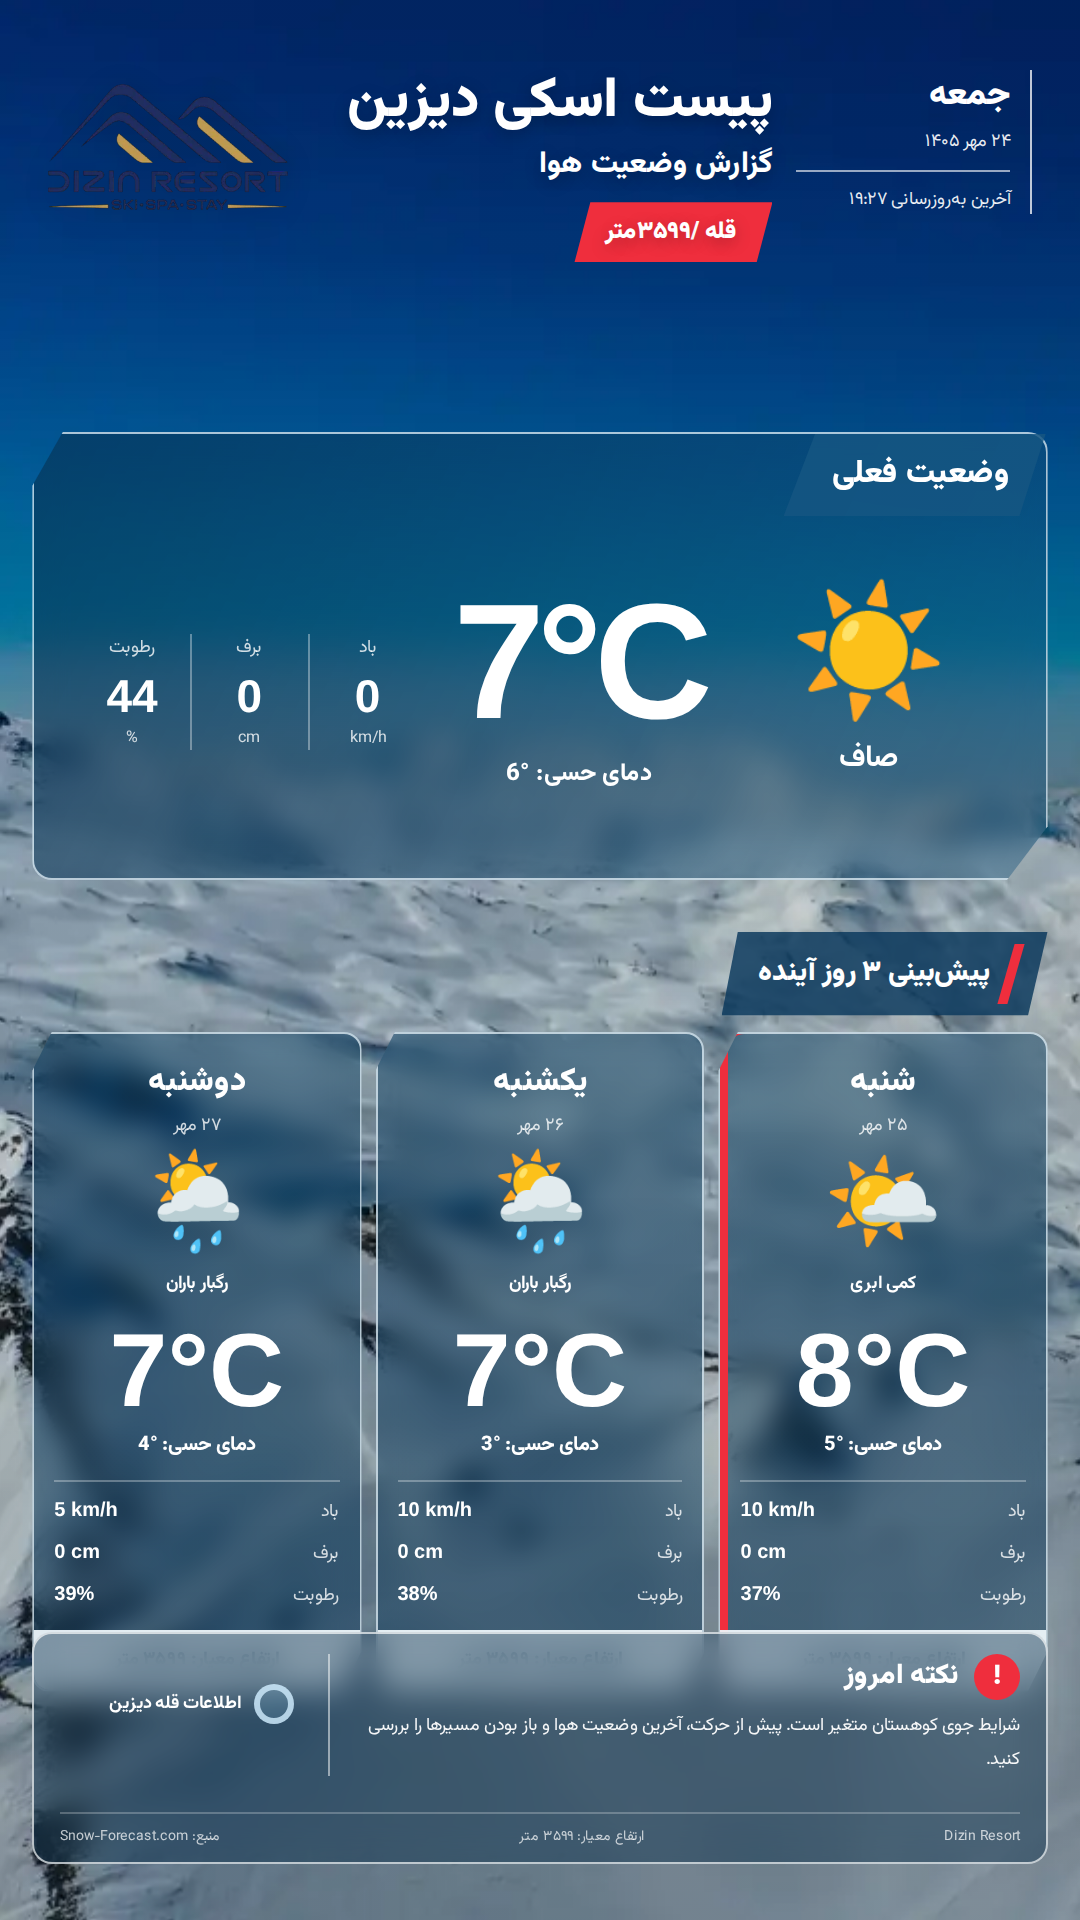
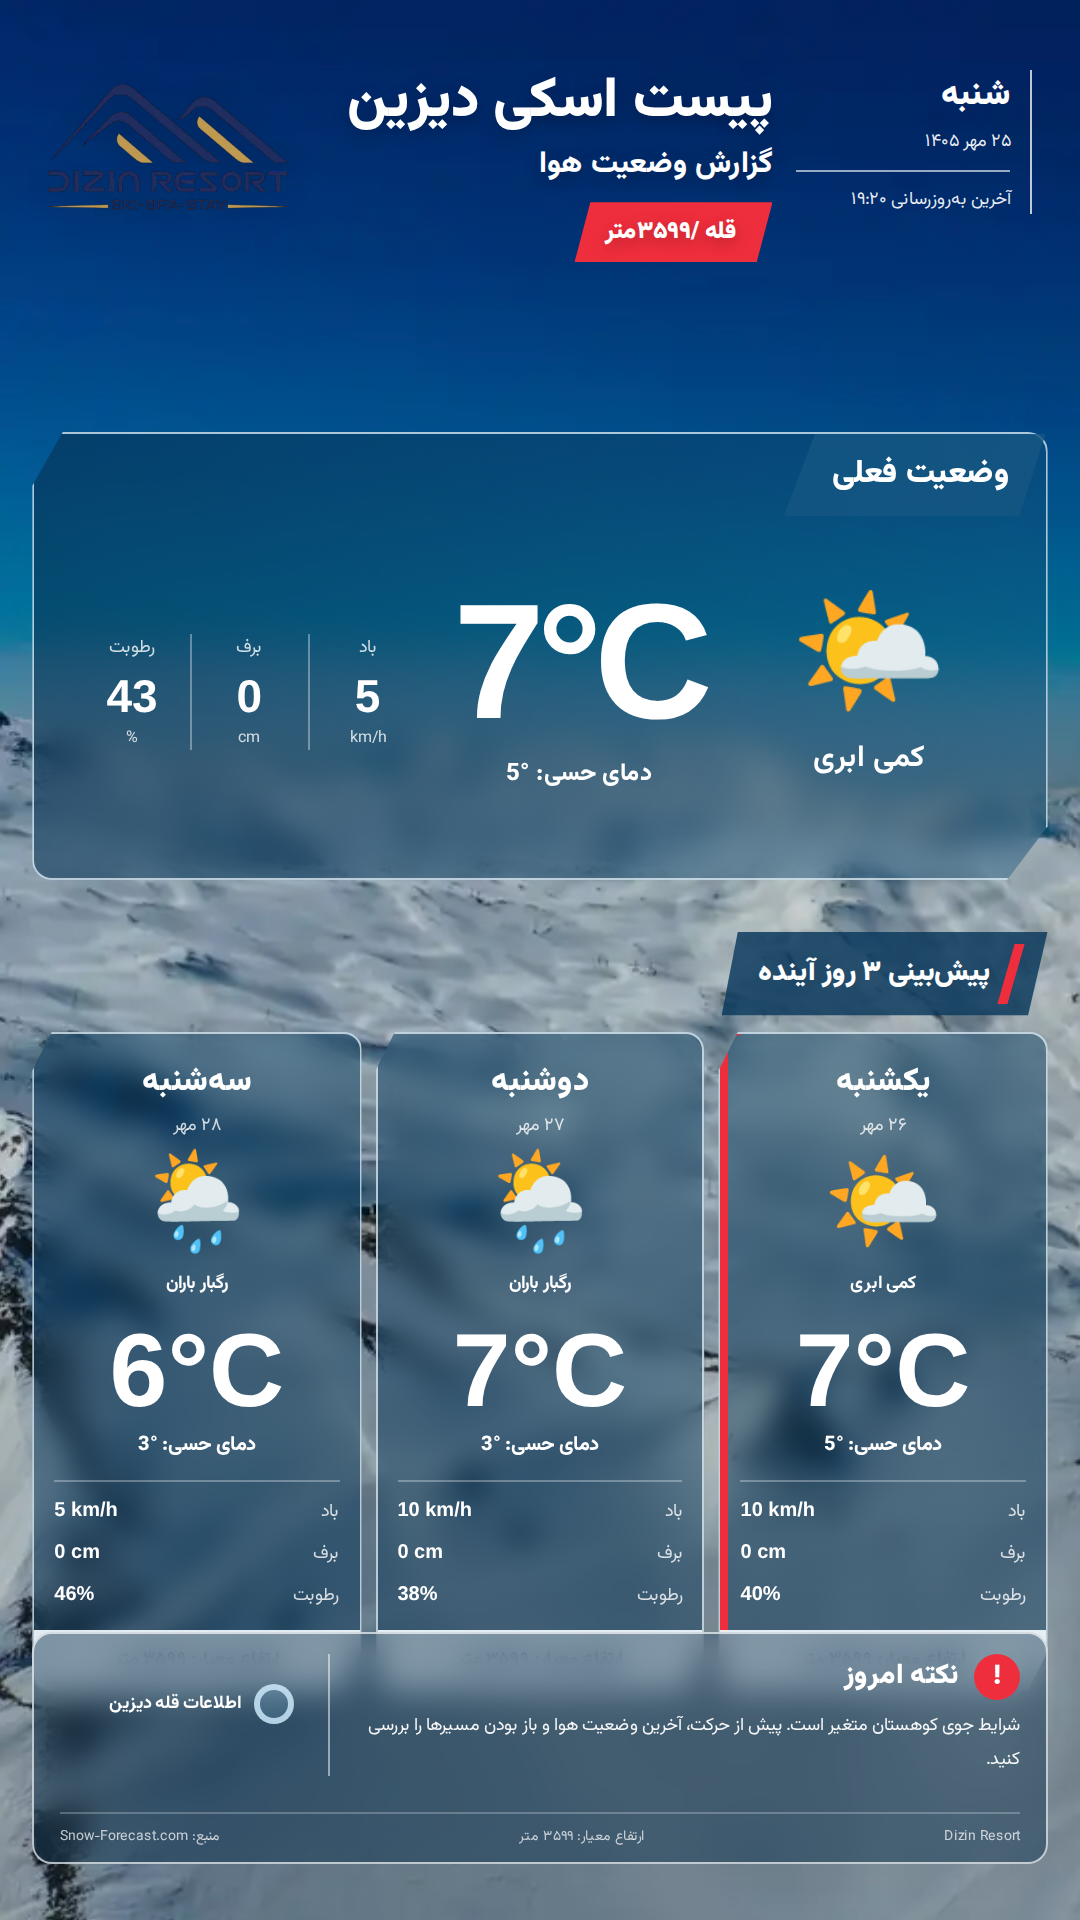
Update daily Dizin weather story

diff --git a/data.js b/data.js
@@ -4,38 +4,38 @@ window.DIZIN_WEATHER = {
   "note": "شرایط جوی کوهستان متغیر است. پیش از حرکت، آخرین وضعیت هوا و باز بودن مسیرها را بررسی کنید.",
   "source": "Snow-Forecast.com",
   "sourceUrl": "https://www.snow-forecast.com/resorts/Dizin/6day/top",
-  "updatedAt": "2026-10-16T15:57:46.994Z",
+  "updatedAt": "2026-10-17T15:50:23.016Z",
   "current": {
-    "isoDate": "2026-10-16",
-    "day": "جمعه",
-    "date": "۲۴ مهر",
-    "icon": "☀",
-    "condition": "صاف",
+    "isoDate": "2026-10-17",
+    "day": "شنبه",
+    "date": "۲۵ مهر",
+    "icon": "🌤",
+    "condition": "کمی ابری",
     "temp": 7,
-    "feels": 6,
-    "wind": 0,
+    "feels": 5,
+    "wind": 5,
     "snow": 0,
-    "humidity": 44,
+    "humidity": 43,
     "kind": "summit-period-forecast",
     "period": "night"
   },
   "days": [
     {
-      "isoDate": "2026-10-17",
-      "day": "شنبه",
-      "date": "۲۵ مهر",
-      "icon": "🌤",
-      "condition": "کمی ابری",
-      "temp": 8,
-      "feels": 5,
-      "wind": 10,
-      "snow": 0,
-      "humidity": 37
-    },
-    {
       "isoDate": "2026-10-18",
       "day": "یکشنبه",
       "date": "۲۶ مهر",
+      "icon": "🌤",
+      "condition": "کمی ابری",
+      "temp": 7,
+      "feels": 5,
+      "wind": 10,
+      "snow": 0,
+      "humidity": 40
+    },
+    {
+      "isoDate": "2026-10-19",
+      "day": "دوشنبه",
+      "date": "۲۷ مهر",
       "icon": "🌦",
       "condition": "رگبار باران",
       "temp": 7,
@@ -45,16 +45,16 @@ window.DIZIN_WEATHER = {
       "humidity": 38
     },
     {
-      "isoDate": "2026-10-19",
-      "day": "دوشنبه",
-      "date": "۲۷ مهر",
+      "isoDate": "2026-10-20",
+      "day": "سهشنبه",
+      "date": "۲۸ مهر",
       "icon": "🌦",
       "condition": "رگبار باران",
-      "temp": 7,
-      "feels": 4,
+      "temp": 6,
+      "feels": 3,
       "wind": 5,
       "snow": 0,
-      "humidity": 39
+      "humidity": 46
     }
   ]
 };
